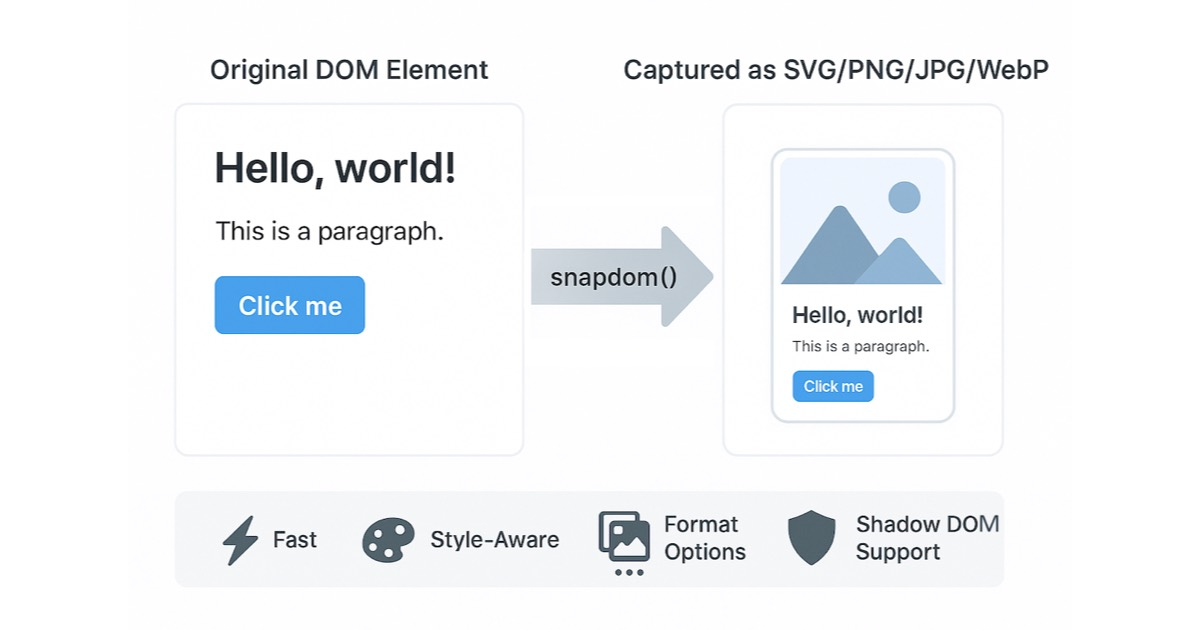
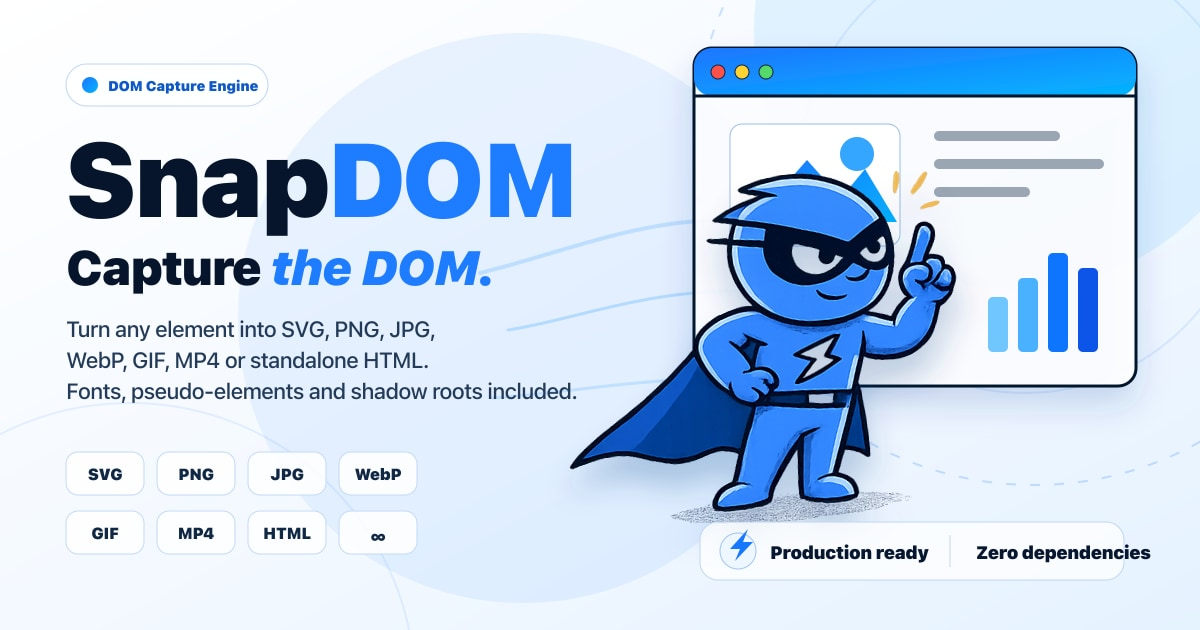
update

diff --git a/docs/index.html b/docs/index.html
@@ -194,9 +194,11 @@
     .sd-btn-primary:hover { background: var(--sd-accent-hover); }
     .sd-btn-ghost { background: transparent; color: var(--sd-text) !important; border-color: rgba(15,30,77,0.28); }
     .sd-btn-ghost:hover { border-color: var(--sd-border); color: var(--sd-text) !important; }
-    .npm-line { display: inline-flex; align-items: center; gap: 14px; border: 1px solid var(--sd-border-soft); padding: 12px 16px; font-family: var(--font-mono); font-size: 13px; color: var(--sd-text); align-self: flex-start; background: var(--sd-surface); }
-    .npm-prompt { color: var(--sd-text-muted); }
-    #npm-copy { border: 0; background: none; cursor: pointer; font-family: var(--font-mono); font-size: 10px; letter-spacing: 1.5px; color: var(--sd-accent); padding: 4px 0 4px 14px; border-left: 1px solid var(--sd-border-soft); text-transform: uppercase; }
+    .npm-stack { display: flex; flex-direction: column; gap: 8px; align-self: flex-start; max-width: 100%; }
+    .npm-line { display: flex; align-items: flex-start; gap: 14px; border: 1px solid var(--sd-border-soft); padding: 12px 16px; font-family: var(--font-mono); font-size: 13px; color: var(--sd-text); background: var(--sd-surface); max-width: 100%; }
+    .npm-prompt { color: var(--sd-text-muted); flex: 0 0 auto; }
+    .npm-cmd { min-width: 0; overflow-wrap: anywhere; line-height: 1.5; }
+    .npm-copy { flex: 0 0 auto; margin-left: auto; align-self: flex-start; border: 0; background: none; cursor: pointer; font-family: var(--font-mono); font-size: 10px; letter-spacing: 1.5px; color: var(--sd-accent); padding: 4px 0 4px 14px; border-left: 1px solid var(--sd-border-soft); text-transform: uppercase; }
     .hero-proof { display: flex; flex-wrap: wrap; align-items: center; gap: 6px 11px; margin: 2px 0; font-family: var(--font-mono); font-size: 12px; letter-spacing: 0.2px; color: var(--sd-text-muted); }
     .hero-proof a { display: inline-flex; align-items: center; gap: 5px; color: var(--sd-text-muted); text-decoration: none; border-bottom: 1px solid transparent; transition: color 0.15s, border-color 0.15s; }
     .hero-proof a:hover { color: var(--sd-accent); border-color: rgba(45,91,255,0.35); }
@@ -213,7 +215,7 @@
     .trusted-item:hover .trusted-logo { filter: grayscale(0); opacity: 1; }
     .trusted-more { font-family: var(--font-mono); font-size: 11.5px; letter-spacing: 0.5px; color: var(--sd-accent); text-decoration: none; }
     .trusted-more:hover { color: var(--sd-accent-hover); }
-    #npm-copy:hover { color: var(--sd-accent-hover); }
+    .npm-copy:hover { color: var(--sd-accent-hover); }
 
     /* Viewfinder stage */
     .hero-stagewrap { display: flex; flex-direction: column; gap: 16px; }
@@ -247,13 +249,12 @@
     .print { background: #FFFFFF; border: 1px solid rgba(15,30,77,0.2); padding: 7px 7px 8px; display: flex; flex-direction: column; gap: 6px; animation: sd-print-in 0.5s cubic-bezier(0.2,0.9,0.3,1) both; box-shadow: 0 12px 26px -16px rgba(15,30,77,0.45); flex: 0 0 auto; }
     .print img { display: block; width: 178px; height: auto; background: #fff; border: 0 !important; padding: 0 !important; box-shadow: none !important; }
     .print-cap { font-family: var(--font-mono); font-size: 9px; letter-spacing: 0.8px; color: var(--sd-text-muted); }
+    .print-plug { width: 0; min-width: 100%; font-family: var(--font-mono); font-size: 8.5px; letter-spacing: 0.3px; line-height: 1.35; color: var(--sd-accent); overflow-wrap: anywhere; margin-top: -3px; }
     .print.r1 { transform: rotate(1.8deg); }
     .print.r2 { transform: rotate(-2.2deg); }
     .print.r3 { transform: rotate(1.1deg); }
 
     /* ═══ Contact sheet (demo index) ═══ */
-    .nav-collapsible { overflow: hidden; max-height: 0; transition: max-height 0.3s ease; }
-    .nav-collapsible.open { max-height: 75vh; overflow-y: auto; -webkit-overflow-scrolling: touch; padding: 1rem 0 0.5rem; margin-top: 0.75rem; scrollbar-width: thin; }
     .menu-label { font-family: var(--font-mono); font-size: 10px; letter-spacing: 2px; color: var(--sd-annot); margin: 48px 0 14px; text-transform: uppercase; }
     nav.demo-menu { display: grid; grid-template-columns: repeat(7, 1fr); gap: 1px; background: rgba(15,30,77,0.14); border: 1px solid rgba(15,30,77,0.14); counter-reset: demo; padding: 0; margin: 0; }
     nav.demo-menu a { position: relative; counter-increment: demo; display: flex; flex-direction: column; gap: 14px; background: var(--sd-surface); color: var(--sd-text); text-decoration: none; font-family: var(--font-mono); font-size: 11.5px; font-weight: 500; letter-spacing: 0.3px; padding: 13px 13px 11px; border: 0; border-radius: 0; transition: background 0.15s, color 0.15s; min-height: 74px; }
@@ -277,7 +278,7 @@
     h3 { font-family: var(--font-body); font-weight: 700; }
 
     /* Buttons (demo controls) */
-    button:not(.theme-toggle):not(.sd-btn):not(.shutter):not(#npm-copy), button#capture, .run-benchmark-button {
+    button:not(.theme-toggle):not(.sd-btn):not(.shutter):not(.npm-copy), button#capture, .run-benchmark-button {
       background: transparent;
       color: var(--sd-text) !important;
       border: 1.5px solid var(--sd-border);
@@ -293,7 +294,7 @@
       transition: background 0.15s, color 0.15s, border-color 0.15s;
       margin: 0 0.5em 0.5em 0;
     }
-    button:not(.theme-toggle):not(.sd-btn):not(.shutter):not(#npm-copy):hover:not(:disabled), button#capture:hover, .run-benchmark-button:hover:not(:disabled) {
+    button:not(.theme-toggle):not(.sd-btn):not(.shutter):not(.npm-copy):hover:not(:disabled), button#capture:hover, .run-benchmark-button:hover:not(:disabled) {
       background: var(--sd-border);
       color: #FFFFFF !important;
       transform: none;
@@ -422,10 +423,6 @@
     [id] { scroll-margin-top: 1rem; }
     .hidden { display: none !important; }
 
-    @media (min-width: 601px) {
-      .nav-collapsible { max-height: none !important; padding: 0; margin-top: 0; }
-      #menu-toggle { display: none !important; }
-    }
     @media (max-width: 1080px) {
       nav.demo-menu { grid-template-columns: repeat(4, 1fr); }
     }
@@ -453,7 +450,6 @@
       h2 { font-size: 23px; }
       .menu-label { margin-top: 12px; }
       nav.demo-menu { grid-template-columns: repeat(2, 1fr); }
-      .nav-collapsible.open { max-height: 60vh; }
       .github-badge { font-size: 10.5px; padding: 6px 10px; }
       .repo-link { display: none; }
       .card, .card.black { padding: 1em; font-size: 0.9em; }
@@ -638,9 +634,11 @@
           <a href="./docs/" class="sd-btn sd-btn-primary" data-umami-event="Hero docs">Get started</a>
           <a href="#demo-index" class="sd-btn sd-btn-ghost" data-umami-event="Hero browse demos">Browse the demos</a>
           <a href="https://github.com/zumerlab/snapdom" class="sd-btn sd-btn-ghost hero-star" target="_blank" rel="noopener" data-umami-event="hero_star_click" title="Useful? Star snapDOM on GitHub"><svg viewBox="0 0 576 512" fill="currentColor" aria-hidden="true" focusable="false"><path d="M316.9 18C311.6 7 300.4 0 288.1 0s-23.4 7-28.8 18L195 150.3 51.4 171.5c-12 1.8-22 10.2-25.7 21.7s-.7 24.2 7.9 32.7L137.8 329 113.2 474.7c-2 12 3 24.2 12.9 31.3s23 8 33.8 2.3l128.3-68.5 128.3 68.5c10.8 5.7 23.9 4.9 33.8-2.3s14.9-19.3 12.9-31.3L438.5 329 542.7 225.9c8.6-8.5 11.7-21.2 7.9-32.7s-13.7-19.9-25.7-21.7L381.2 150.3 316.9 18z"/></svg>Star on GitHub</a>
-          <button id="menu-toggle" class="sd-btn sd-btn-ghost" aria-expanded="false" aria-controls="demo-menu">Demo index</button>
         </div>
-        <div class="npm-line"><span class="npm-prompt">$</span><span>npm i @zumer/snapdom</span><button type="button" id="npm-copy" data-umami-event="Copy npm install">copy</button></div>
+        <div class="npm-stack">
+          <div class="npm-line"><span class="npm-prompt">&lt;&gt;</span><span class="npm-cmd">&lt;script src="https://unpkg.com/@zumer/snapdom/dist/snapdom.js"&gt;&lt;/script&gt;</span><button type="button" class="npm-copy" data-copy='&lt;script src="https://unpkg.com/@zumer/snapdom/dist/snapdom.js"&gt;&lt;/script&gt;' data-umami-event="Copy CDN script">copy</button></div>
+          <div class="npm-line"><span class="npm-prompt">$</span><span class="npm-cmd">npm i @zumer/snapdom</span><button type="button" class="npm-copy" data-copy="npm i @zumer/snapdom" data-umami-event="Copy npm install">copy</button></div>
+        </div>
       </div>
 
       <div class="hero-stagewrap">
@@ -665,7 +663,7 @@
         <div class="stage-row">
           <div class="shutter-wrap">
             <button type="button" class="shutter" onclick="captureHeroStage(this)" aria-label="Capture the hero with snapdom" data-umami-event="Hero shutter"><span></span></button>
-            <span class="shutter-label">CAPTURE()</span>
+            <span class="shutter-label">CAPTURE</span>
           </div>
           <div class="hero-tray" id="hero-tray" aria-live="polite"></div>
         </div>
@@ -685,7 +683,7 @@
       <a class="trusted-more" href="./made-with/" data-umami-event="hero_trusted_click">+ more →</a>
     </div>
 
-    <div id="menu-container" class="nav-collapsible">
+    <div id="menu-container">
       <div class="menu-label" id="demo-index">Contact sheet — 21 live demos, every cell runs the real library</div>
       <nav id="demo-menu" class="demo-menu">
         <a href="#html-export-demo">toHtml <span class="new-badge">New</span></a>
@@ -1510,42 +1508,6 @@
     }
   </script>
 
-  <script>
-    (function setupMobileMenu() {
-      const toggle = document.getElementById('menu-toggle');
-      const panel = document.getElementById('menu-container');
-      const menu = document.getElementById('demo-menu');
-      if (!toggle || !panel || !menu) return;
-
-      function setOpen(open) {
-        toggle.setAttribute('aria-expanded', String(open));
-        panel.classList.toggle('open', open);
-        if (open) panel.scrollTop = 0;
-      }
-
-      function toggleMenu() {
-        const isOpen = panel.classList.contains('open');
-        setOpen(!isOpen);
-        if (!isOpen) {
-          const firstLink = menu.querySelector('a');
-          if (firstLink) firstLink.focus({ preventScroll: true });
-        } else {
-          toggle.focus({ preventScroll: true });
-        }
-      }
-
-      toggle.addEventListener('click', (e) => { e.preventDefault(); toggleMenu(); });
-      menu.addEventListener('click', (e) => {
-        const t = e.target;
-        if (t && t.tagName === 'A' && panel.classList.contains('open')) setOpen(false);
-      });
-      document.addEventListener('keydown', (e) => { if (e.key === 'Escape' && panel.classList.contains('open')) setOpen(false); });
-      const mql = window.matchMedia('(min-width: 601px)');
-      mql.addEventListener?.('change', () => { if (mql.matches) setOpen(false); });
-    })();
-  </script>
-
-
   <script type="module">
         import { snapdom } from 'https://unpkg.com/@zumer/snapdom/dist/snapdom.mjs';
 
@@ -1945,19 +1907,42 @@
       } catch (e) { /* keep fallback */ }
     })()
 
-    // npm install copy
+    // Install snippets copy (CDN + npm)
     ;(function () {
-      const btn = document.getElementById('npm-copy')
-      if (!btn) return
-      btn.addEventListener('click', () => {
-        try { navigator.clipboard.writeText('npm i @zumer/snapdom') } catch (e) {}
-        btn.textContent = 'copied'
-        setTimeout(() => { btn.textContent = 'copy' }, 1500)
+      document.querySelectorAll('.npm-copy').forEach(btn => {
+        btn.addEventListener('click', () => {
+          try { navigator.clipboard.writeText(btn.dataset.copy) } catch (e) {}
+          btn.textContent = 'copied'
+          setTimeout(() => { btn.textContent = 'copy' }, 1500)
+        })
       })
     })()
 
-    // Hero shutter — captures the viewfinder with the real library
+    // Hero shutter — captures the viewfinder with the real library.
+    // The first press is a straight capture, so the print can be compared against
+    // the live stage. Every press after that rolls an official plugin and captions
+    // the print with the call that produced it.
+    const HERO_ROLLS = [
+      { mod: 'filter', fn: 'filter', opts: { preset: 'vintage' }, label: "filter({ preset: 'vintage' })" },
+      { mod: 'filter', fn: 'filter', opts: { preset: 'dramatic' }, label: "filter({ preset: 'dramatic' })" },
+      { mod: 'filter', fn: 'filter', opts: { preset: 'grayscale' }, label: "filter({ preset: 'grayscale' })" },
+      { mod: 'filter', fn: 'filter', opts: { preset: 'invert' }, label: "filter({ preset: 'invert' })" },
+      { mod: 'color-tint', fn: 'colorTint', opts: { color: '#2D5BFF', opacity: 0.9 }, label: "colorTint({ color: '#2D5BFF' })" },
+      { mod: 'color-tint', fn: 'colorTint', opts: { color: '#FF6B35', opacity: 0.9 }, label: "colorTint({ color: '#FF6B35' })" },
+      { mod: 'timestamp-overlay', fn: 'timestampOverlay', opts: { format: 'time', position: 'bottom-right', fontSize: 26 }, label: "timestampOverlay({ format: 'time' })" },
+    ]
     let heroBusy = false
+    let heroShots = 0
+    let lastRoll = -1
+
+    function rollHeroPlugin() {
+      if (heroShots++ === 0) return null
+      let i = lastRoll
+      while (i === lastRoll) i = Math.floor(Math.random() * HERO_ROLLS.length)
+      lastRoll = i
+      return HERO_ROLLS[i]
+    }
+
     async function captureHeroStage(btn) {
       if (heroBusy) return
       heroBusy = true
@@ -1967,12 +1952,27 @@
       if (btn) btn.disabled = true
       try {
         if (flash) { flash.classList.remove('flashing'); void flash.offsetWidth; flash.classList.add('flashing') }
-        const t0 = performance.now()
         let waited = 0
         while (!window.snapdom && waited < 12000) { await new Promise(r => setTimeout(r, 120)); waited += 120 }
         if (!window.snapdom) return
-        const img = await window.snapdom.toImg(stage, { scale: 0.32, embedFonts: false, cache: 'auto', exclude: ['#hero-flash'] })
-        const ms = Math.max(1, Math.round(performance.now() - t0 - Math.min(waited, t0)))
+
+        // Rolled plugin is loaded before the clock starts: the timing on the print
+        // measures the capture, not a one-off CDN fetch.
+        const roll = rollHeroPlugin()
+        let plugins = []
+        let label = 'snapdom.toImg()'
+        if (roll) {
+          try {
+            const mod = await import(`https://esm.sh/@zumer/snapdom-plugins/${roll.mod}`)
+            plugins = [mod[roll.fn](roll.opts)]
+            label = roll.label
+          } catch (e) { console.warn('hero plugin failed, capturing straight', e) }
+        }
+
+        const t0 = performance.now()
+        const img = await window.snapdom.toImg(stage, { scale: 0.32, embedFonts: false, cache: 'auto', exclude: ['#hero-flash'], plugins })
+        const ms = Math.max(1, Math.round(performance.now() - t0))
+
         const print = document.createElement('div')
         print.className = 'print r' + ((tray.childElementCount % 2) + 1)
         img.draggable = false
@@ -1980,8 +1980,11 @@
         const cap = document.createElement('div')
         cap.className = 'print-cap'
         cap.textContent = 'hero.png · ' + ms + ' ms'
-        print.appendChild(img)
-        print.appendChild(cap)
+        const plug = document.createElement('div')
+        plug.className = 'print-plug'
+        plug.textContent = label
+        plug.title = label
+        print.append(img, cap, plug)
         tray.prepend(print)
         while (tray.childElementCount > 2) tray.lastElementChild.remove()
       } catch (e) {